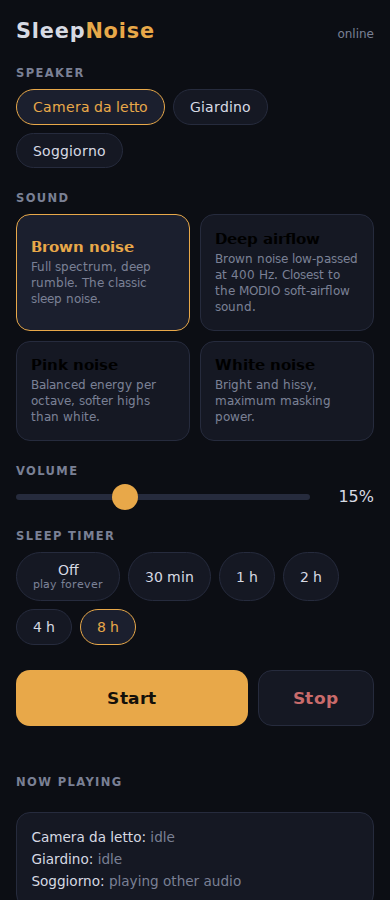
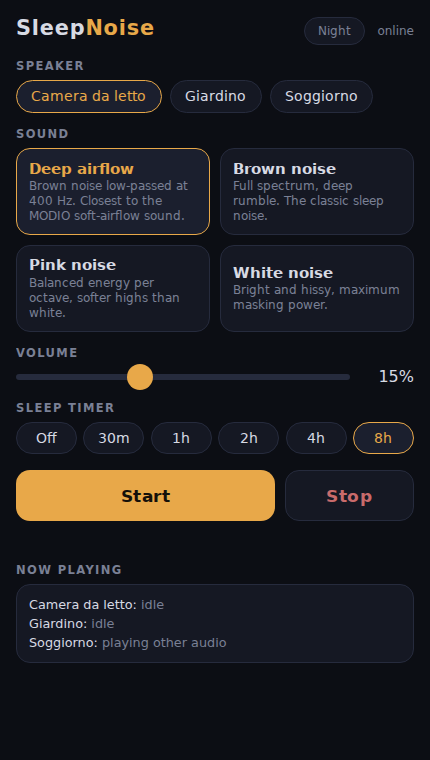
docs: refresh screenshots, add night mode

diff --git a/README.md b/README.md
@@ -35,7 +35,7 @@ Configuration in `.env`: ports, Icecast passwords, `DEFAULT_ROOM` (Sonos room na
 
 ## Web UI
 
-<img src="docs/screenshot.png" alt="SleepNoise web UI" width="390">
+<img src="docs/screenshot.png" alt="SleepNoise web UI" width="330"> <img src="docs/screenshot-night.png" alt="SleepNoise red night mode" width="330">
 
 `https://sleepnoise.example.com/` - dark, phone-friendly control panel: pick speaker, sound, volume, sleep timer, Start/Stop. Shows live playback state and remaining timer. The timer uses the native Sonos sleep timer, so it survives app restarts and is visible in the Sonos app too.
 